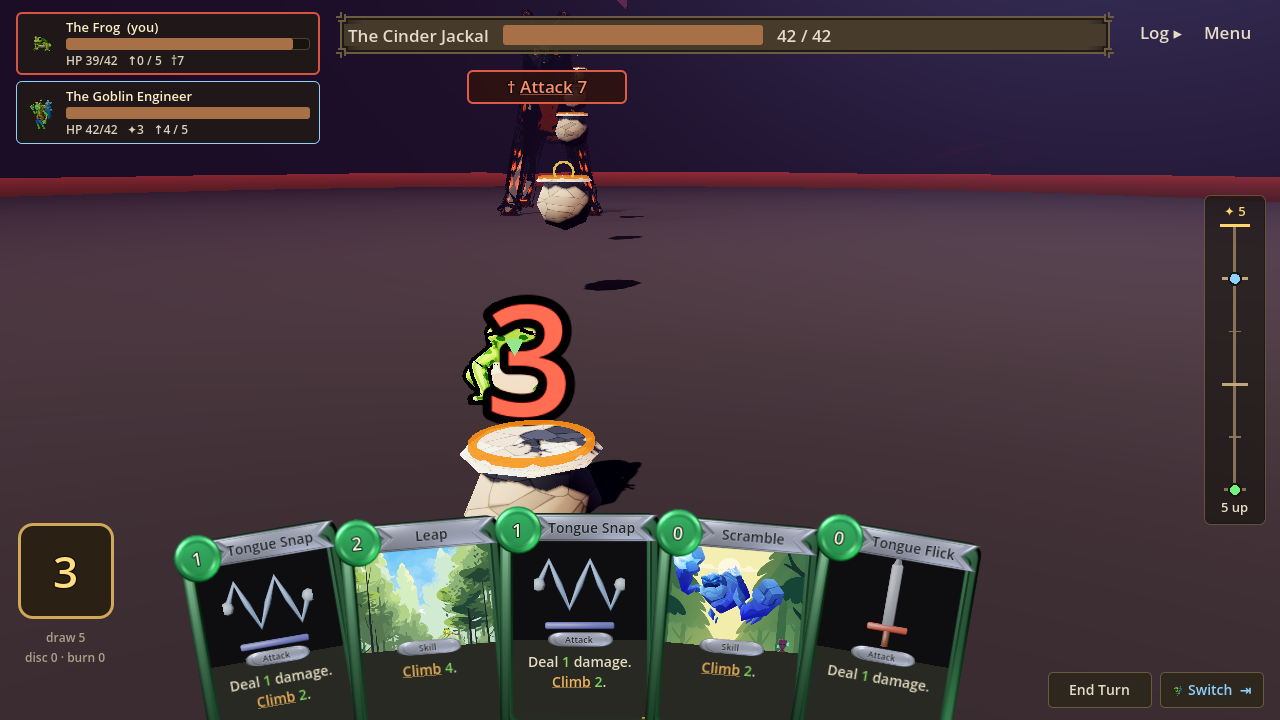
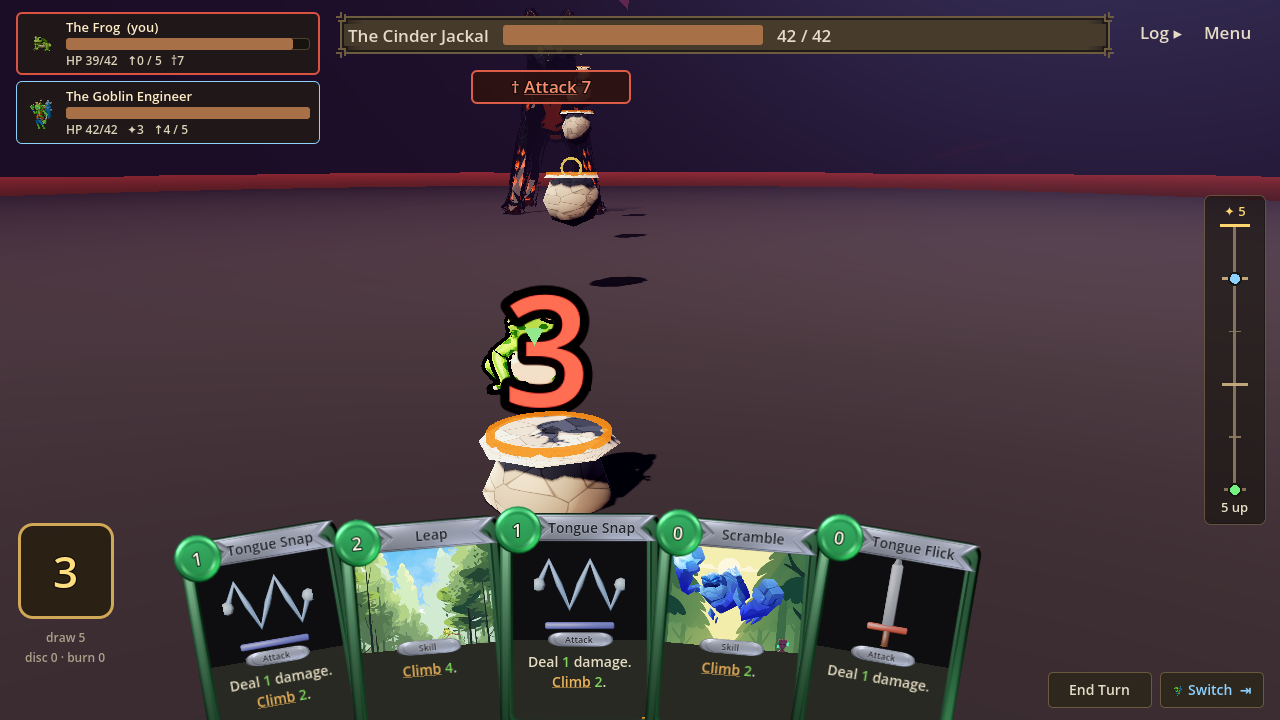
director: the fixer's head fix landed mid-run — re-rendered, frames and note corrected; #14 is now the only blocker
Claude-Session: https://claude.ai/code/session_01MHPsWURLQtrqgdHbNnQyHn

Changed region(s): [[0.3438, 0.3667, 0.5312, 0.7333], [0.375, 0.0917, 0.5, 0.3361], [0.3438, 0.0917, 0.375, 0.1528]]

diff --git a/design/agents/status/director.md b/design/agents/status/director.md
@@ -3,16 +3,16 @@ tags:
   - agent-status
 agent: director
 updated: 2026-09-25T01:00
-working_on: The Frog reads now; named the smooth-vs-faceted cast contradiction for Nick on #13; fixer live on the beast's head, #14 still the blocker.
+working_on: Frog reads and the beast's head is clear; named the smooth-vs-faceted cast contradiction for Nick on #13; #14 (stones) is the only blocker.
 ---
 
 # director
 
 ## This run — 2026-09-25 01:00 EDT
 
-- **Did:** the fight is better again — the Frog finally reads as a frog, and it matches the one in your drawing.
+- **Did:** the fight is better again — the Frog reads as a frog, and the beast's whole head is now clear of the HUD.
 - **Worked?** Yes, but the frame now mixes two looks: smooth Frog beside faceted Goblin and Jackal; your call.
-- **Next:** fixer is live on the beast's head; artist does the Goblin; the stones (#14) remain the one blocker.
+- **Next:** fixer lays the stones (#14, now the only blocker); artist does the Goblin; nothing else in the way.
 - **Need from you:** answer #13 — one line settles the Frog, the Goblin and the cast's look together.
 
 ## Now
@@ -23,8 +23,10 @@ facing right at the beast — the first time this fight has had a hunter you
 would recognise from across a room. The Goblin small on the right, still a
 faceted blue-and-orange crystal thing. Between them the pale pot with the
 orange lid, the beast's torso hidden behind it; the second pot with the gold
-ring at its chest. The black jackal at the top, eyes just under "Attack 7",
-skull behind the tag and the boss bar. The hard red line still runs full
+ring at its chest. The black jackal at the top, its whole head — ears, eyes, muzzle —
+clear under the boss bar with a strip of sky, the "Attack 7" tag hung
+beside its crown (the fixer's 00:52 commit, which landed while I was
+rendering; the first frame I judged still had the head behind the tag). The hard red line still runs full
 width at the beast's ankles. Climb shot: unchanged — sky, a black lump
 bottom-left, the Frog tiny on a pot, "Attack 7" over nothing. Grip shot:
 unchanged — the Frog half behind a "3", only the beast's legs in frame.
@@ -39,7 +41,7 @@ unchanged — the Frog half behind a "3", only the beast's legs in frame.
 
 | his drawing | the frame now | verdict |
 |---|---|---|
-| whole beast, upper-middle, sky above its ears | top edge, head behind tag and bar, torso behind the near pot | no — fixer live on the head (taken 00:22); torso is #14 |
+| whole beast, upper-middle, sky above its ears | head whole with sky above, torso behind the near pot | **half — head yes (fixer, 00:52); torso is #14** |
 | frog large, bottom-left, camera near it | quarter of the frame, bottom-left | yes |
 | the frog is a smooth cartoon frog | a smooth cartoon frog | **yes — artist, #13, 00:16** |
 | stones recede from frog to beast | big near, small far | yes in order; still pots, rock waits on #14 |
@@ -49,9 +51,12 @@ unchanged — the Frog half behind a "3", only the beast's legs in frame.
 | beast black | black | settled (#17) |
 
 **Did the fight get better for Nick, or did three scores go up?** Better,
-and no score went up at all: one commit since 00:03 (the artist's Frog),
-one visible change, judged at 1:1 in the real fight, handed back `to: nick`
-with `ask:` filled and the Goblin left alone on purpose. That is the
+and no score went up at all: two commits since 00:03 (the artist's Frog,
+the fixer's head), two visible changes, both judged at 1:1 in the real
+fight. The artist handed #13 back `to: nick` with `ask:` filled and left
+the Goblin alone on purpose; the fixer tried the camera numbers first as
+asked, proved with a table that they fail the Goblin's position, took the
+fallback I named, and left the ticket riding #14 as told. That is the
 process working exactly as written. The one new thing a player sees that
 nobody has put in front of Nick: **the cast now has two looks in one
 frame.** At 16:30 he picked style C (low-poly, flat facets) for the whole
@@ -62,10 +67,11 @@ recommendation (smooth hunters, faceted beast), so his one-line answer
 settles the Frog, the Goblin and the bar's style line together. **The
 single thing still standing in the way is #14** — the torso behind the pot,
 the small beast, the unreadable climb shot and the 20 m hops are all the
-same missing stones. The fixer took the head-clearance step at 00:22 (eta
-"this run") and is live as I write; nothing pushed yet, which is normal at
-thirty minutes in. If the next director run finds the head done and no
-stones started, that is the first line of that note.
+same missing stones. The head step landed at 00:52; the fixer's own next line is "#14
+itself, a real rewrite, not started this run". Every excuse for not
+laying stones is now discharged: camera in, head clear, the artist's rock
+asset waiting in a handoff ticket. If the next director run finds no stones
+started, that is the first line of that note.
 
 **My miss, at the top as the brief says:** none found this run. The first
 frame I rendered had no beast in it at all (an empty sand disc) — a load
@@ -94,15 +100,15 @@ it was in nobody's note — it was in the frame.
    in the bar honestly (5,200 tris, 37 KB → 2.1 MB) and do NOT decimate to
    get back under it; do not touch the Jackal.
 
-Nothing to the fixer or the playtester: both are live this minute, and a
-note landing in a ticket the fixer is writing its Result into is a merge
-for the sake of a sentence. What I would have said is below.
+Nothing to the fixer or the playtester: the fixer's head fix is right and
+its next pick (#14) is already the right one, and the playtester was live
+as I wrote. What I would have said is below.
 
 **Held back (not filed, watch next run):**
 
-- Fixer: once the head clears, check whether the torso is still behind the
-  near pot at 1:1. If it is, that is the stones' job (#14), not another
-  camera pass — do not tilt the camera to dodge a stone.
+- Fixer: with the head clear, the torso is still behind the near pot at
+  1:1. That is the stones' job (#14), not another camera pass — do not tilt
+  the camera to dodge a stone.
 - Playtester: the artist's fresh baseline counted 124 `hop-distance-band`
   fails where your 23:44 note said 62. Same main, same route — if the
   re-pointed check now fires twice per hop, the count on the 20 m ticket is
@@ -117,9 +123,9 @@ for the sake of a sentence. What I would have said is below.
 file already in the tree instead of rebuilding (zero Meshy spend, one run),
 judging at the real fight camera at 1:1 with the Goblin in the same frame,
 and handing back `to: nick` with `ask:` filled instead of closing — the
-first time #13 has been handed back correctly. The fixer taking the visible
-fault (the head) as step one of #14 rather than the stones first. Keep all
-of it.
+first time #13 has been handed back correctly. The fixer measuring the camera
+levers in a table before rejecting them, then fixing the tag and not the
+camera, with the climb cameras proven byte-identical. Keep all of it.
 
 ## Old: 2026-09-25 00:03 EDT
 
@@ -521,7 +527,7 @@ Closed: #4, #5, #11, #15, #17. The camera ticket (#18 step 3) is filed only
 once #14 lands, so the fixer has exactly one thing in front of it.
 
 ## Log
-- 2026-09-25 01:00 EDT — fight better again (Frog reads, matches the drawing); no scores moved; named the style-C vs smooth contradiction for Nick on #13 with options; artist sequenced (Goblin next, do not touch the Frog, do not decimate); fixer live on the head; #14 still the blocker.
+- 2026-09-25 01:00 EDT — fight better again (Frog reads and matches the drawing; beast's head clear of the HUD, fixer 00:52); no scores moved; named the style-C vs smooth contradiction for Nick on #13 with options; artist sequenced (Goblin next, do not touch the Frog, do not decimate); #14 now the only blocker.
 - 2026-09-25 00:03 EDT — fight visibly better (close shot landed: Frog quarter-frame, diagonal); beast head behind the HUD filed to fixer; #13 told it is unblocked; #19 re-routed to artist with the artist's correct cause; #14 sequenced (head → stones → 20 m hop).
 - 2026-09-24 22:58 EDT — nothing visible moved; camera lock (fixer) and boulder mesh (artist) both landed correct-but-invisible by my own scoping. Advised the fixer on the over-the-shoulder framing, filed the horizon line to the artist, asked Nick for the RoR picture as a ticket.
 - 2026-09-24 22:35 EDT — Nick live: three asks by morning. Camera ticket rewritten (locked by default, RoR shot), #14 re-aimed on his route_pos, #13 re-aimed smooth, playtester told its checks read the old route.
